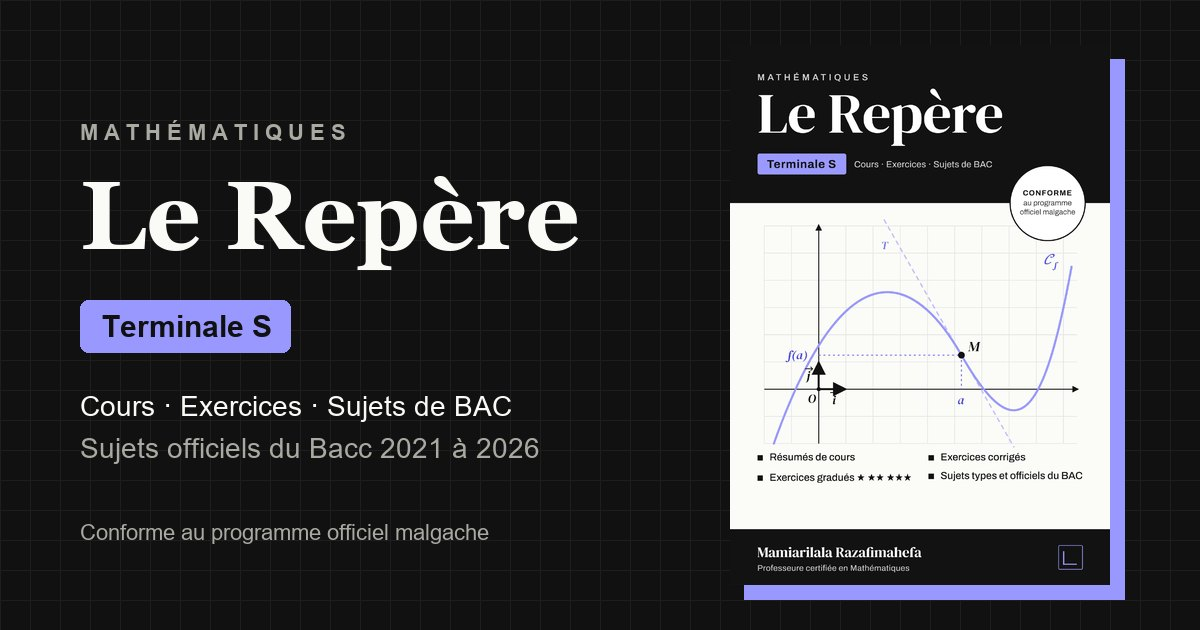
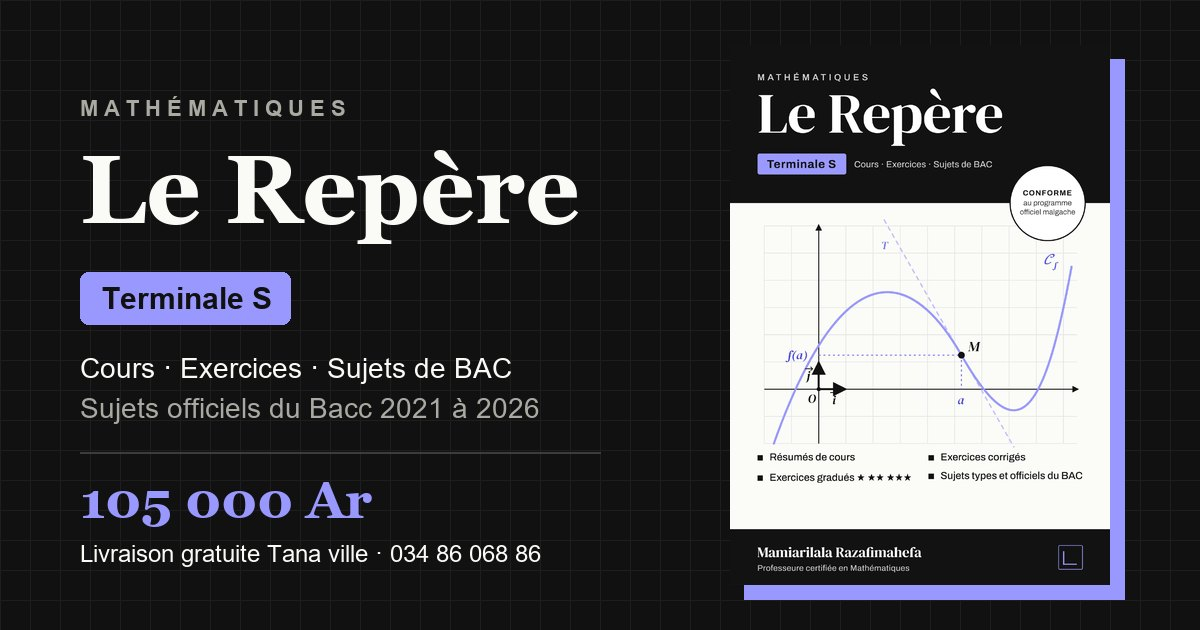
Ajouter la section Commander, le prix et la collection
- Prix 105 000 Ar, commande par WhatsApp ou appel au 034 86 068 86,
  livraison gratuite dans Tana ville (section, accroche, pied de page).
- Annonce des versions Terminale C, D et OSE (prochainement).
- Image d'apercu Facebook mise a jour avec le prix et le contact.

diff --git a/index.html b/index.html
@@ -3,12 +3,12 @@
 <head>
 <meta charset="utf-8">
 <meta name="viewport" content="width=device-width, initial-scale=1, viewport-fit=cover">
-<meta name="description" content="Manuel de mathématiques pour la Terminale S : cours illustré, méthodes, plus de 300 exercices gradués et les sujets officiels du Bacc Série S 2021 à 2026. Conforme au programme officiel malgache.">
+<meta name="description" content="Manuel de mathématiques pour la Terminale S : cours illustré, méthodes, plus de 300 exercices gradués et les sujets officiels du Bacc Série S 2021 à 2026. Conforme au programme officiel malgache. 105 000 Ar, livraison gratuite dans Tana ville.">
 <meta property="og:type" content="website">
 <meta property="og:locale" content="fr_FR">
 <meta property="og:site_name" content="Le Repère">
 <meta property="og:title" content="Le Repère · Mathématiques Terminale S">
-<meta property="og:description" content="Manuel de mathématiques pour la Terminale S : cours illustré, méthodes, plus de 300 exercices gradués et les sujets officiels du Bacc Série S 2021 à 2026. Conforme au programme officiel malgache.">
+<meta property="og:description" content="Manuel de mathématiques pour la Terminale S : cours illustré, méthodes, plus de 300 exercices gradués et les sujets officiels du Bacc Série S 2021 à 2026. Conforme au programme officiel malgache. 105 000 Ar, livraison gratuite dans Tana ville.">
 <meta property="og:url" content="https://amamiarilala-svg.github.io/le-repere/">
 <meta property="og:image" content="https://amamiarilala-svg.github.io/le-repere/assets/og.jpg">
 <meta property="og:image:width" content="1200">
@@ -256,6 +256,34 @@ dialog.lb img { display: block; max-width: 100%; max-height: 86vh; width: auto; 
 .plus p { margin: 0; color: var(--ink-2); }
 .plus p b { color: var(--ink); }
 
+/* ── Commander ───────────────────────────── */
+.ship { margin: 14px 0 0; font-size: .875rem; color: var(--band-ink-2); }
+.ship::before { content: ""; display: inline-block; width: 8px; height: 8px; border-radius: 50%; background: var(--violet); margin-right: 8px; vertical-align: 1px; }
+.order-grid { display: grid; grid-template-columns: minmax(0, 1fr) minmax(0, 1fr); gap: 0; border: 2px solid var(--ink); border-radius: 12px; overflow: hidden; background: var(--paper); }
+@media (max-width: 820px) { .order-grid { grid-template-columns: minmax(0, 1fr); } }
+.ticket { padding: 28px 28px 26px; display: grid; gap: 18px; align-content: start; }
+.price { font-family: var(--f-display); font-size: clamp(3rem, 8vw, 4.5rem); line-height: 1; font-variant-numeric: tabular-nums; white-space: nowrap; }
+.price small { font-size: .42em; color: var(--violet-ink); margin-left: .15em; }
+.ticket-sub { margin: 0; color: var(--ink-2); }
+.ticket ul { list-style: none; margin: 0; padding: 16px 0 0; border-top: 1px dashed var(--rule); display: grid; gap: 8px; }
+.ticket li { display: flex; gap: 10px; align-items: baseline; }
+.ticket li::before { content: "✓"; color: var(--violet-ink); font-weight: 700; }
+.contact { padding: 28px; background: var(--violet-wash); border-left: 2px dashed var(--ink); display: grid; gap: 14px; align-content: start; }
+@media (max-width: 820px) { .contact { border-left: 0; border-top: 2px dashed var(--ink); } }
+.phone { font-family: var(--f-display); font-size: clamp(2rem, 5.5vw, 2.75rem); line-height: 1.1; margin: 0; font-variant-numeric: tabular-nums; user-select: all; }
+.contact-btns { display: flex; flex-wrap: wrap; gap: 10px; }
+.contact .btn { border: 1px solid var(--ink); color: var(--ink); background: var(--paper); cursor: pointer; font-family: var(--f-body); }
+.contact .btn.wa { background: var(--ink); color: var(--paper); }
+.contact .hint { margin: 0; font-size: .9375rem; color: var(--ink-2); }
+.collection { margin-top: 44px; }
+.series { display: grid; grid-template-columns: repeat(4, minmax(0, 1fr)); gap: 12px; margin-top: 12px; }
+@media (max-width: 760px) { .series { grid-template-columns: repeat(2, minmax(0, 1fr)); } }
+.serie { border: 1px dashed var(--ink-2); border-radius: 10px; padding: 16px 18px; display: grid; gap: 4px; color: var(--ink-2); }
+.serie b { font-family: var(--f-display); font-weight: 400; font-size: var(--s2); color: var(--ink); line-height: 1.15; }
+.serie span { font-size: .8125rem; font-weight: 600; letter-spacing: .1em; text-transform: uppercase; }
+.serie.on { border: 2px solid var(--ink); background: var(--violet); color: #111; }
+.serie.on b { color: #111; }
+
 /* ── Auteure ─────────────────────────────── */
 .author .wrap { display: grid; grid-template-columns: minmax(0, .8fr) minmax(0, 1.2fr); gap: 56px; padding-block: 88px; }
 @media (max-width: 860px) { .author .wrap { grid-template-columns: minmax(0, 1fr); gap: 28px; padding-block: 60px; } }
@@ -282,7 +310,8 @@ footer.foot .wrap { display: flex; flex-wrap: wrap; justify-content: space-betwe
         <a href="#sommaire">Sommaire</a>
         <a href="#methode">Méthode</a>
         <a href="#bac">Bac</a>
-        <a class="nav-key" href="#apercu">Feuilleter</a>
+        <a href="#apercu">Aperçu</a>
+        <a class="nav-key" href="#commander">Commander</a>
       </nav>
     </div>
   </div>
@@ -295,9 +324,10 @@ footer.foot .wrap { display: flex; flex-wrap: wrap; justify-content: space-betwe
         <div class="hero-line"><span class="pill">Terminale S</span><span>Cours · Exercices · Sujets de BAC</span></div>
         <p class="lead">Un manuel complet pour préparer le Baccalauréat Série S à Madagascar : le cours illustré, les méthodes pas à pas, des exercices gradués du plus accessible au plus exigeant, et les sujets officiels de 2021 à 2026.</p>
         <div class="cta">
-          <a class="btn btn-a" href="#sommaire">Voir le sommaire</a>
+          <a class="btn btn-a" href="#commander">Commander · 105&#8239;000&nbsp;Ar</a>
           <a class="btn btn-b" href="#apercu">Feuilleter des pages</a>
         </div>
+        <p class="ship">Livraison gratuite dans Tana ville</p>
       </div>
       <div class="cover">
         <img src="assets/couverture.jpg" alt="Couverture du livre Le Repère, Mathématiques Terminale S, par Mamiarilala Razafimahefa" width="641" height="910">
@@ -740,6 +770,47 @@ footer.foot .wrap { display: flex; flex-wrap: wrap; justify-content: space-betwe
   </div>
 </section>
 
+<section class="block" id="commander">
+  <div class="wrap">
+    <div class="head">
+      <p class="label">Commander</p>
+      <h2>Recevez le livre chez vous</h2>
+      <p>Commandez par WhatsApp ou par téléphone. La livraison est gratuite dans Tana ville.</p>
+    </div>
+    <div class="order-grid">
+      <div class="ticket">
+        <p class="label">Le Repère · Mathématiques Terminale S</p>
+        <p class="price">105&#8239;000<small>Ar</small></p>
+        <p class="ticket-sub">383 pages : cours, exercices corrigés et sujets de BAC.</p>
+        <ul>
+          <li><span><b>Livraison gratuite</b> dans Tana ville</span></li>
+          <li><span>Sujets officiels du Bacc 2021 à 2026 inclus</span></li>
+          <li><span>Conforme au programme officiel malgache</span></li>
+        </ul>
+      </div>
+      <div class="contact">
+        <p class="label">WhatsApp ou appel</p>
+        <p class="phone" id="phone">034 86 068 86</p>
+        <div class="contact-btns">
+          <a class="btn wa" href="https://wa.me/261348606886?text=Bonjour%2C%20je%20souhaite%20commander%20le%20livre%20Le%20Rep%C3%A8re%2C%20Math%C3%A9matiques%20Terminale%20S." target="_blank" rel="noopener">Écrire sur WhatsApp</a>
+          <a class="btn" href="tel:+261348606886">Appeler</a>
+          <button class="btn" type="button" id="copy-phone">Copier le numéro</button>
+        </div>
+        <p class="hint">Précisez votre nom, le nombre d'exemplaires et votre quartier de livraison.</p>
+      </div>
+    </div>
+    <div class="collection">
+      <p class="label">La collection Le Repère</p>
+      <div class="series">
+        <div class="serie on"><b>Terminale S</b><span>Disponible</span></div>
+        <div class="serie"><b>Terminale C</b><span>Prochainement</span></div>
+        <div class="serie"><b>Terminale D</b><span>Prochainement</span></div>
+        <div class="serie"><b>Terminale OSE</b><span>Prochainement</span></div>
+      </div>
+    </div>
+  </div>
+</section>
+
 <section class="band author" id="auteure">
   <div class="wrap">
     <div>
@@ -757,7 +828,7 @@ footer.foot .wrap { display: flex; flex-wrap: wrap; justify-content: space-betwe
 <footer class="foot">
   <div class="wrap">
     <span>© 2026 Mamiarilala Razafimahefa · Le Repère, Mathématiques Terminale S</span>
-    <span>Conforme au programme officiel malgache, Série S</span>
+    <span>Commandes : 034 86 068 86 (WhatsApp ou appel) · Livraison gratuite dans Tana ville</span>
   </div>
 </footer>
 
@@ -870,6 +941,14 @@ footer.foot .wrap { display: flex; flex-wrap: wrap; justify-content: space-betwe
   var chaps = document.querySelectorAll("details.chap");
   document.getElementById("open-all").addEventListener("click", function () { chaps.forEach(function (c) { c.open = true; }); });
   document.getElementById("close-all").addEventListener("click", function () { chaps.forEach(function (c) { c.open = false; }); });
+
+  /* ── Copier le numéro ── */
+  var cp = document.getElementById("copy-phone");
+  cp.addEventListener("click", function () {
+    var done = function () { cp.textContent = "Numéro copié"; setTimeout(function () { cp.textContent = "Copier le numéro"; }, 2000); };
+    var sel = function () { var r = document.createRange(); r.selectNodeContents(document.getElementById("phone")); var w = getSelection(); w.removeAllRanges(); w.addRange(r); cp.textContent = "Numéro sélectionné"; };
+    if (navigator.clipboard && navigator.clipboard.writeText) navigator.clipboard.writeText("034 86 068 86").then(done, sel); else sel();
+  });
 
   /* ── Visionneuse ── */
   var specs = Array.prototype.slice.call(document.querySelectorAll(".spec"));
